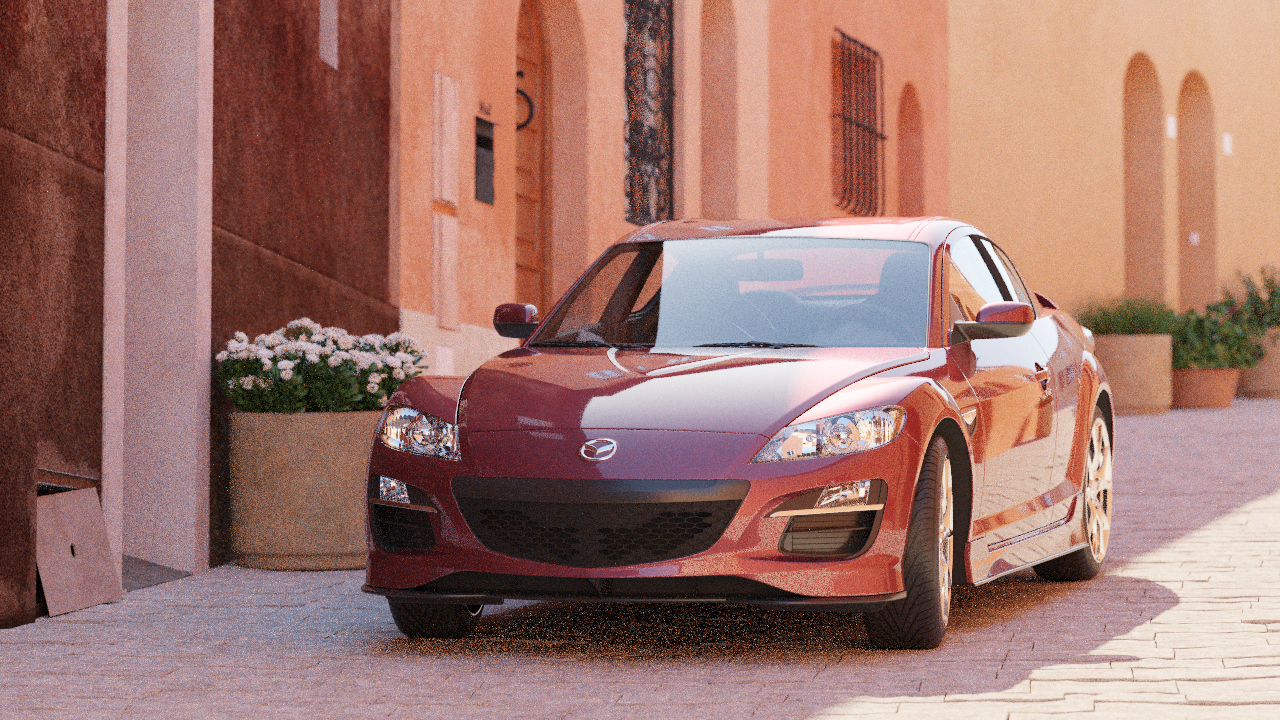
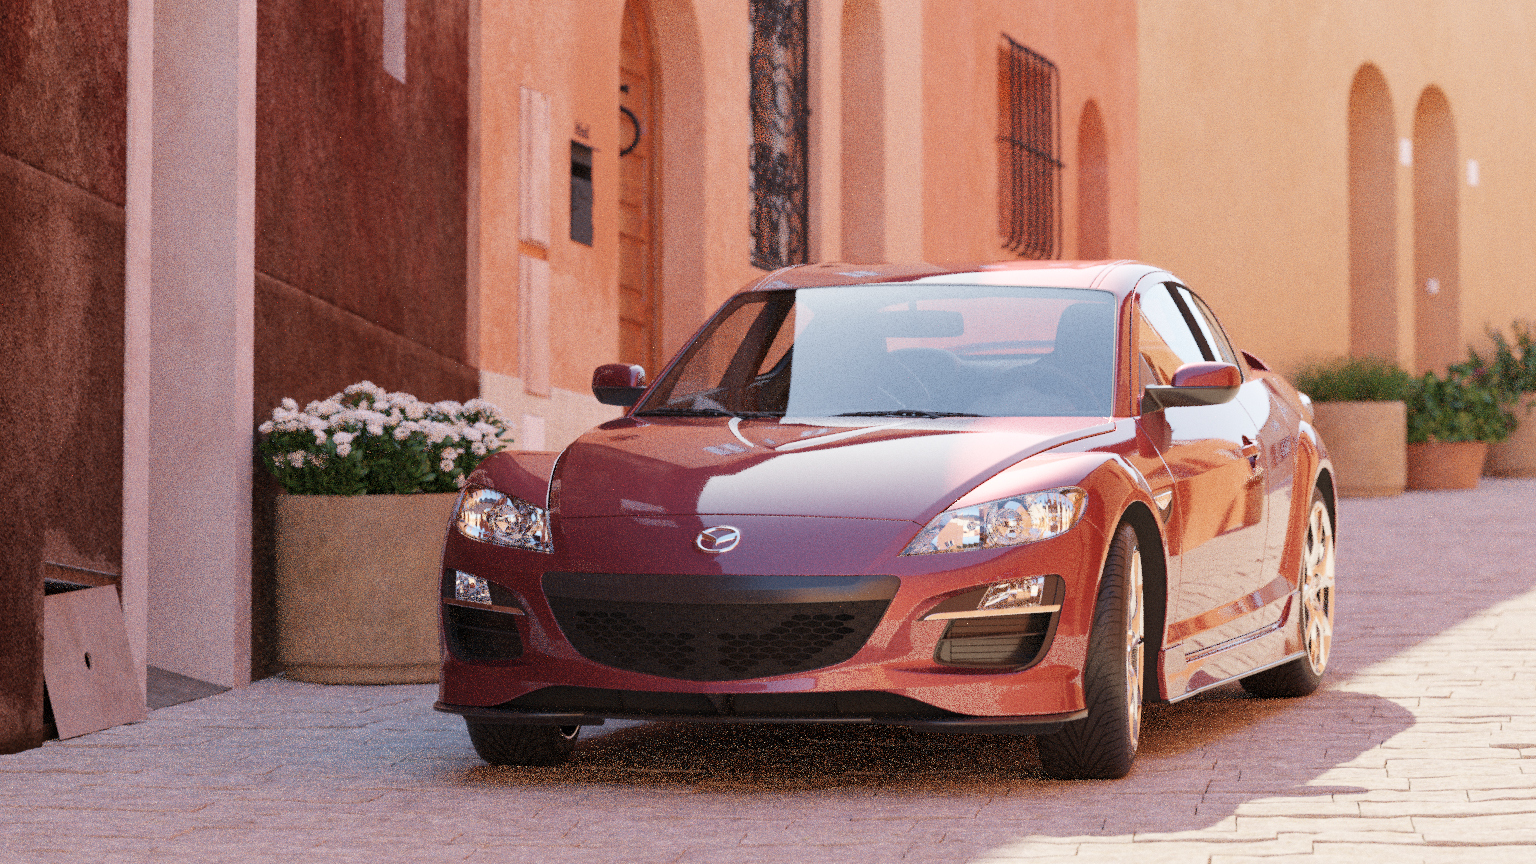
v1.0.0 release

diff --git a/documentation.html b/documentation.html
@@ -190,12 +190,19 @@ div.sourceCode { overflow-x: initial; }
 <a class="sourceLine" id="cb4-3" title="3"><span class="dt">bool</span> oidnGetDevice1b(OIDNDevice device, <span class="at">const</span> <span class="dt">char</span>* name);</a>
 <a class="sourceLine" id="cb4-4" title="4"><span class="dt">int</span>  oidnGetDevice1i(OIDNDevice device, <span class="at">const</span> <span class="dt">char</span>* name);</a></code></pre></div>
 <p>to set and get parameter values on the device. Note that some parameters are constants, thus trying to set them is an error. See the tables below for the parameters supported by devices.</p>
-<table>
+<table style="width:97%;">
 <caption>Parameters supported by all devices.</caption>
+<colgroup>
+<col style="width: 11%" />
+<col style="width: 18%" />
+<col style="width: 12%" />
+<col style="width: 54%" />
+</colgroup>
 <thead>
 <tr class="header">
 <th style="text-align: left;">Type</th>
 <th style="text-align: left;">Name</th>
+<th style="text-align: right;">Default</th>
 <th style="text-align: left;">Description</th>
 </tr>
 </thead>
@@ -203,27 +210,43 @@ div.sourceCode { overflow-x: initial; }
 <tr class="odd">
 <td style="text-align: left;">const int</td>
 <td style="text-align: left;">version</td>
+<td style="text-align: right;"></td>
 <td style="text-align: left;">combined version number (major.minor.patch) with two decimal digits per component</td>
 </tr>
 <tr class="even">
 <td style="text-align: left;">const int</td>
 <td style="text-align: left;">versionMajor</td>
+<td style="text-align: right;"></td>
 <td style="text-align: left;">major version number</td>
 </tr>
 <tr class="odd">
 <td style="text-align: left;">const int</td>
 <td style="text-align: left;">versionMinor</td>
+<td style="text-align: right;"></td>
 <td style="text-align: left;">minor version number</td>
 </tr>
 <tr class="even">
 <td style="text-align: left;">const int</td>
 <td style="text-align: left;">versionPatch</td>
+<td style="text-align: right;"></td>
 <td style="text-align: left;">patch version number</td>
+</tr>
+<tr class="odd">
+<td style="text-align: left;">int</td>
+<td style="text-align: left;">verbose</td>
+<td style="text-align: right;">0</td>
+<td style="text-align: left;">verbosity level of the console output between 0–3; when set to 0, no output is printed, when set to a higher level more output is printed</td>
 </tr>
 </tbody>
 </table>
-<table>
+<table style="width:97%;">
 <caption>Additional parameters supported only by CPU devices.</caption>
+<colgroup>
+<col style="width: 8%" />
+<col style="width: 17%" />
+<col style="width: 12%" />
+<col style="width: 58%" />
+</colgroup>
 <thead>
 <tr class="header">
 <th style="text-align: left;">Type</th>
@@ -423,14 +446,14 @@ div.sourceCode { overflow-x: initial; }
 <p>It accepts either a low dynamic range (LDR) or high dynamic range (HDR) color image as input. Optionally, it also accepts auxiliary <em>feature</em> images, e.g. albedo and normal, which improve the denoising quality, preserving more details in the image.</p>
 <p>The <code>RT</code> filter has certain limitations regarding the supported input images. Most notably, it cannot denoise images that were not rendered with ray tracing. Another important limitation is related to anti-aliasing filters. Most renderers use a high-quality pixel reconstruction filter instead of a trivial box filter to minimize aliasing artifacts (e.g. Gaussian, Blackman-Harris). The <code>RT</code> filter does support such pixel filters but only if implemented with importance sampling. Weighted pixel sampling (sometimes called <em>splatting</em>) introduces correlation between neighboring pixels, which causes the denoising to fail (the noise will not be filtered), thus it is not supported.</p>
 <p>The filter can be created by passing <code>"RT"</code> to the <code>oidnNewFilter</code> function as the filter type. The filter supports the following parameters:</p>
-<table style="width:97%;">
+<table style="width:98%;">
 <caption>Parameters supported by the <code>RT</code> filter.</caption>
 <colgroup>
-<col style="width: 10%" />
 <col style="width: 11%" />
-<col style="width: 14%" />
+<col style="width: 11%" />
+<col style="width: 17%" />
 <col style="width: 12%" />
-<col style="width: 48%" />
+<col style="width: 45%" />
 </colgroup>
 <thead>
 <tr class="header">
@@ -482,7 +505,28 @@ div.sourceCode { overflow-x: initial; }
 <td style="text-align: left;"></td>
 <td style="text-align: left;">srgb</td>
 <td style="text-align: right;">false</td>
-<td style="text-align: left;">whether the color is encoded with the sRGB (2.2 gamma) curve (LDR only) or is linear; the output will be encoded with the same curve</td>
+<td style="text-align: left;">whether the color is encoded with the sRGB (or 2.2 gamma) curve (LDR only) or is linear; the output will be encoded with the same curve</td>
+</tr>
+<tr class="odd">
+<td style="text-align: left;">int</td>
+<td style="text-align: left;"></td>
+<td style="text-align: left;">maxMemoryMB</td>
+<td style="text-align: right;">6000</td>
+<td style="text-align: left;">approximate maximum amount of memory to use in megabytes (actual memory usage may be higher); limiting memory usage may cause slower denoising due to internally splitting the image into overlapping tiles, but cannot cause the denoising to fail</td>
+</tr>
+<tr class="even">
+<td style="text-align: left;">const int</td>
+<td style="text-align: left;"></td>
+<td style="text-align: left;">alignment</td>
+<td style="text-align: right;"></td>
+<td style="text-align: left;">when manually denoising the image in tiles, the tile size and offsets should be multiples of this amount of pixels to avoid artifacts; note that manual tiled denoising is supported <em>only</em> for LDR images</td>
+</tr>
+<tr class="odd">
+<td style="text-align: left;">const int</td>
+<td style="text-align: left;"></td>
+<td style="text-align: left;">overlap</td>
+<td style="text-align: right;"></td>
+<td style="text-align: left;">when manually denoising the image in tiles, the tiles should overlap by this amount of pixels</td>
 </tr>
 </tbody>
 </table>
@@ -491,22 +535,22 @@ div.sourceCode { overflow-x: initial; }
 <img src="images/mazda_512spp_color.jpg" alt="Example noisy color image rendered using unidirectional path tracing (512 spp). Scene by Evermotion." style="width:90.0%" /><figcaption>Example noisy color image rendered using unidirectional path tracing (512 spp). <em>Scene by Evermotion.</em></figcaption>
 </figure>
 <figure>
-<img src="images/mazda_512spp_oidn.jpg" alt="Example output image denoised using color and auxiliary (first-hit) feature images (albedo and normal)" style="width:90.0%" /><figcaption>Example output image denoised using color and auxiliary (first-hit) feature images (albedo and normal)</figcaption>
+<img src="images/mazda_512spp_oidn.jpg" alt="Example output image denoised using color and auxiliary feature images (albedo and normal)." style="width:90.0%" /><figcaption>Example output image denoised using color and auxiliary feature images (albedo and normal).</figcaption>
 </figure>
 <p>Using auxiliary feature images like albedo and normal helps preserving fine details and textures in the image thus can significantly improve denoising quality. These images should typically contain feature values for the first hit (i.e. the surface which is directly visible) per pixel. This works well for most surfaces but does not provide any benefits for reflections and objects visible through transparent surfaces (compared to just using the color as input). However, in certain cases this issue can be fixed by storing feature values for a subsequent hit (i.e. the reflection and/or refraction) instead of the first hit. For example, it usually works well to follow perfect specular (<em>delta</em>) paths and store features for the first diffuse or glossy surface hit instead (e.g. for perfect specular dielectrics and mirrors). This can greatly improve the quality of reflections and transmission. We will describe this approach in more detail in the following subsections.</p>
 <p>The auxiliary feature images should be as noise-free as possible. It is not a strict requirement but too much noise in the feature images may cause residual noise in the output. Also, all feature images should use the same pixel reconstruction filter as the color image. Using a properly anti-aliased color image but aliased albedo or normal images will likely introduce artifacts around edges.</p>
 <h4 id="albedo">Albedo</h4>
 <p>The albedo image is the feature image that usually provides the biggest quality improvement. It should contain the approximate color of the surfaces independent of illumination and viewing angle.</p>
 <p>For simple matte surfaces this means using the diffuse color/texture as the albedo. For other, more complex surfaces it is not always obvious what is the best way to compute the albedo, but the denoising filter is flexibile to a certain extent and works well with differently computed albedos. Thus it is not necessary to compute the strict, exact albedo values but must be always between 0 and 1.</p>
-<p>For metallic surfaces the albedo should be either the reflectivity at normal incidence (e.g. from the artist friendly metallic Fresnel model) or the average reflectivity; or if these are constant (not textured) or unknown, the albedo can be simply 1 as well.</p>
-<p>The albedo for dielectric surfaces (e.g. glass) should be either 1 or, if the surface is perfect specular (i.e. has a delta BSDF), the Fresnel blend of the reflected and transmitted albedos (as previously discussed). The latter usually works better but <em>only</em> if it does not introduce too much additional noise due to random sampling. Thus we recommend to split the path into a reflected and a transmitted path at the first hit, and perhaps fall back to an albedo of 1 for subsequent dielectric hits, to avoid noise. The reflected albedo in itself can be used for mirror-like surfaces as well.</p>
-<p>The albedo for layered surfaces can be computed as the weighted sum of the albedos of the individual layers. Non-absorbing clear coat layers can be simply ignored (or the albedo of the perfect specular reflection can be used as well) but absorption should be taken into account.</p>
 <figure>
 <img src="images/mazda_512spp_albedo_firsthit.jpg" alt="Example albedo image obtained using the first hit. Note that the albedos of all transparent surfaces are 1." style="width:90.0%" /><figcaption>Example albedo image obtained using the first hit. Note that the albedos of all transparent surfaces are 1.</figcaption>
 </figure>
 <figure>
 <img src="images/mazda_512spp_albedo_nondeltahit.jpg" alt="Example albedo image obtained using the first diffuse or glossy (non-delta) hit. Note that the albedos of perfect specular (delta) transparent surfaces are computed as the Fresnel blend of the reflected and transmitted albedos." style="width:90.0%" /><figcaption>Example albedo image obtained using the first diffuse or glossy (non-delta) hit. Note that the albedos of perfect specular (delta) transparent surfaces are computed as the Fresnel blend of the reflected and transmitted albedos.</figcaption>
 </figure>
+<p>For metallic surfaces the albedo should be either the reflectivity at normal incidence (e.g. from the artist friendly metallic Fresnel model) or the average reflectivity; or if these are constant (not textured) or unknown, the albedo can be simply 1 as well.</p>
+<p>The albedo for dielectric surfaces (e.g. glass) should be either 1 or, if the surface is perfect specular (i.e. has a delta BSDF), the Fresnel blend of the reflected and transmitted albedos (as previously discussed). The latter usually works better but <em>only</em> if it does not introduce too much additional noise due to random sampling. Thus we recommend to split the path into a reflected and a transmitted path at the first hit, and perhaps fall back to an albedo of 1 for subsequent dielectric hits, to avoid noise. The reflected albedo in itself can be used for mirror-like surfaces as well.</p>
+<p>The albedo for layered surfaces can be computed as the weighted sum of the albedos of the individual layers. Non-absorbing clear coat layers can be simply ignored (or the albedo of the perfect specular reflection can be used as well) but absorption should be taken into account.</p>
 <h4 id="normal">Normal</h4>
 <p>The normal image should contain the shading normals of the surfaces either in world-space or view-space. It is recommended to include normal maps to preserve as much detail as possible.</p>
 <p>Just like any other input image, the normal image should be anti-aliased (i.e. by accumulating the normalized normals per pixel). The final accumulated normals do not have to be normalized but must be in a range symmetric about 0 (i.e. normals mapped to [0, 1] are <em>not</em> acceptable and must be remapped to e.g. [−1, 1]).</p>

diff --git a/gallery.html b/gallery.html
@@ -36,34 +36,10 @@
       <div id="content">
 
 <h1 id="open-image-denoise-gallery">Open Image Denoise Gallery</h1>
-<p>This page contains a few sample screenshots of different renderings denoised with Open Image Denoise, using the color, albedo, and normal buffers as inputs. The original noisy images are also shown. Hover over an image (or tap on it if you have a touchscreen) to move the slider between the original and denoised versions.</p>
+<p>This page contains a few sample screenshots of different renderings denoised with Open Image Denoise, using the color, albedo, and normal buffers as inputs. The original (noisy) color buffers are also shown. Hover over an image (or tap on it if you have a touchscreen) to move the slider between the original and denoised versions.</p>
 <p>If <em>you</em> have created any notable images using Open Image Denoise and would like to share them on this page, please <a href="mailto:openimagedenoise@googlegroups.com">send us an email</a>.</p>
-<h2 id="moana-island-scene">Moana Island Scene</h2>
-<p>Rendered at 16 spp with <a href="http://www.ospray.org">Intel® OSPRay</a>:</p>
-<div class="img-compare" style="padding-bottom: 41.875%; /* 536/1280 */" onmousemove="this.getElementsByTagName(&#39;div&#39;)[0].style.width=event.offsetX+&#39;px&#39;">
-<img src="images/moana_palms_16spp_oidn.jpg"><span>Denoised</span>
-<div>
-<img src="images/moana_palms_16spp_input.jpg"><span>Original</span>
-</div>
-</div>
-<p><em><a href="https://www.technology.disneyanimation.com/islandscene">Publicly available</a> dataset courtesy of Walt Disney Animation Studios.</em></p>
-<h2 id="amazon-lumberyard-bistro">Amazon Lumberyard Bistro</h2>
-<p>Rendered at 64 spp:</p>
-<div class="img-compare" style="padding-bottom: 56.25%; /* 9/16 */" onmousemove="this.getElementsByTagName(&#39;div&#39;)[0].style.width=event.offsetX+&#39;px&#39;">
-<img src="images/bistro_64spp_oidn.jpg"><span>Denoised</span>
-<div>
-<img src="images/bistro_64spp_input.jpg"><span>Original</span>
-</div>
-</div>
-<div class="img-compare" style="padding-bottom: 56.25%; /* 9/16 */" onmousemove="this.getElementsByTagName(&#39;div&#39;)[0].style.width=event.offsetX+&#39;px&#39;">
-<img src="images/bistro2_64spp_oidn.jpg"><span>Denoised</span>
-<div>
-<img src="images/bistro2_64spp_input.jpg"><span>Original</span>
-</div>
-</div>
-<p><em>Scene created by Amazon Lumberyard, released publicly in the NVIDIA <a href="http://developer.nvidia.com/orca/amazon-lumberyard-bistro">Open Research Content Archive (ORCA)</a> collection, downloaded from <a href="https://casual-effects.com/data">Morgan McGuire’s Computer Graphics Archive</a>.</em></p>
 <h2 id="crytek-sponza">Crytek Sponza</h2>
-<p>Rendered at 16 spp:</p>
+<p>Rendered at 16 spp and denoised in HDR:</p>
 <div class="img-compare" style="padding-bottom: 56.25%; /* 9/16 */" onmousemove="this.getElementsByTagName(&#39;div&#39;)[0].style.width=event.offsetX+&#39;px&#39;">
 <img src="images/sponza_16spp_oidn.jpg"><span>Denoised</span>
 <div>
@@ -71,8 +47,30 @@
 </div>
 </div>
 <p><em>Scene courtesy of Frank Meinl, downloaded from <a href="https://casual-effects.com/data">Morgan McGuire’s Computer Graphics Archive</a>.</em></p>
+<h2 id="amazon-lumberyard-bistro">Amazon Lumberyard Bistro</h2>
+<p>Rendered at 64 spp and denoised in HDR:</p>
+<div class="img-compare" style="padding-bottom: 56.25%; /* 9/16 */" onmousemove="this.getElementsByTagName(&#39;div&#39;)[0].style.width=event.offsetX+&#39;px&#39;">
+<img src="images/bistro_64spp_oidn.jpg"><span>Denoised</span>
+<div>
+<img src="images/bistro_64spp_input.jpg"><span>Original</span>
+</div>
+</div>
+<p>Rendered at 16 spp and denoised in HDR:</p>
+<div class="img-compare" style="padding-bottom: 56.25%; /* 9/16 */" onmousemove="this.getElementsByTagName(&#39;div&#39;)[0].style.width=event.offsetX+&#39;px&#39;">
+<img src="images/bistro3_16spp_oidn.jpg"><span>Denoised</span>
+<div>
+<img src="images/bistro3_16spp_input.jpg"><span>Original</span>
+</div>
+</div>
+<div class="img-compare" style="padding-bottom: 56.25%; /* 9/16 */" onmousemove="this.getElementsByTagName(&#39;div&#39;)[0].style.width=event.offsetX+&#39;px&#39;">
+<img src="images/bistro2_16spp_oidn.jpg"><span>Denoised</span>
+<div>
+<img src="images/bistro2_16spp_input.jpg"><span>Original</span>
+</div>
+</div>
+<p><em>Scene created by Amazon Lumberyard, released publicly in the NVIDIA <a href="http://developer.nvidia.com/orca/amazon-lumberyard-bistro">Open Research Content Archive (ORCA)</a> collection, downloaded from <a href="https://casual-effects.com/data">Morgan McGuire’s Computer Graphics Archive</a>.</em></p>
 <h2 id="mazda">Mazda</h2>
-<p>Rendered at 64 spp:</p>
+<p>Rendered at 64 spp and denoised in LDR:</p>
 <div class="img-compare" style="padding-bottom: 56.25%; /* 9/16 */" onmousemove="this.getElementsByTagName(&#39;div&#39;)[0].style.width=event.offsetX+&#39;px&#39;">
 <img src="images/mazda_64spp_oidn.jpg"><span>Denoised</span>
 <div>
@@ -81,22 +79,23 @@
 </div>
 <p><em>Scene by Evermotion.</em></p>
 <h2 id="villa">Villa</h2>
-<p>Rendered at 64 spp:</p>
+<p>Rendered at 32 spp and denoised in HDR:</p>
 <div class="img-compare" style="padding-bottom: 56.25%; /* 9/16 */" onmousemove="this.getElementsByTagName(&#39;div&#39;)[0].style.width=event.offsetX+&#39;px&#39;">
-<img src="images/villa_64spp_oidn.jpg"><span>Denoised</span>
+<img src="images/villa_32spp_oidn.jpg"><span>Denoised</span>
 <div>
-<img src="images/villa_64spp_input.jpg"><span>Original</span>
+<img src="images/villa_32spp_input.jpg"><span>Original</span>
 </div>
 </div>
+<p>Rendered at 16 spp and denoised in HDR:</p>
 <div class="img-compare" style="padding-bottom: 56.25%; /* 9/16 */" onmousemove="this.getElementsByTagName(&#39;div&#39;)[0].style.width=event.offsetX+&#39;px&#39;">
-<img src="images/villa2_64spp_oidn.jpg"><span>Denoised</span>
+<img src="images/villa2_16spp_oidn.jpg"><span>Denoised</span>
 <div>
-<img src="images/villa2_64spp_input.jpg"><span>Original</span>
+<img src="images/villa2_16spp_input.jpg"><span>Original</span>
 </div>
 </div>
 <p><em>Scene by Evermotion.</em></p>
 <h2 id="art-deco">Art Deco</h2>
-<p>Rendered at 2048 spp:</p>
+<p>Rendered at 2048 spp and denoised in HDR:</p>
 <div class="img-compare" style="padding-bottom: 56.25%; /* 9/16 */" onmousemove="this.getElementsByTagName(&#39;div&#39;)[0].style.width=event.offsetX+&#39;px&#39;">
 <img src="images/artdeco_2048spp_oidn.jpg"><span>Denoised</span>
 <div>

diff --git a/downloads.html b/downloads.html
@@ -40,13 +40,13 @@
 <p>Your CPU must support at least SSE4.1 to run Open Image Denoise, and you need a 64-bit operating system as well. The TGZ/ZIP packages contain most needed 3rd party dependencies.</p>
 <h2 id="packages">Packages</h2>
 <p>For Linux we provide Open Image Denoise precompiled for 64-bit as a TGZ file:</p>
-<p><a href="https://github.com/OpenImageDenoise/oidn/releases/download/v0.9.0/oidn-0.9.0.x86_64.linux.tar.gz">oidn-0.9.0.x86_64.linux.tar.gz</a></p>
+<p><a href="https://github.com/OpenImageDenoise/oidn/releases/download/v1.0.0/oidn-1.0.0.x86_64.linux.tar.gz">oidn-1.0.0.x86_64.linux.tar.gz</a></p>
 <p>For macOS we provide Open Image Denoise as a TGZ file:</p>
-<p><a href="https://github.com/OpenImageDenoise/oidn/releases/download/v0.9.0/oidn-0.9.0.x86_64.macos.tar.gz">oidn-0.9.0.x86_64.macos.tar.gz</a></p>
+<p><a href="https://github.com/OpenImageDenoise/oidn/releases/download/v1.0.0/oidn-1.0.0.x86_64.macos.tar.gz">oidn-1.0.0.x86_64.macos.tar.gz</a></p>
 <p>For Windows we provide Open Image Denoise binaries precompiled for 64-bit as a ZIP archive:</p>
-<p><a href="https://github.com/OpenImageDenoise/oidn/releases/download/v0.9.0/oidn-0.9.0.x64.vc14.windows.zip">oidn-0.9.0.x64.vc14.windows.zip</a></p>
+<p><a href="https://github.com/OpenImageDenoise/oidn/releases/download/v1.0.0/oidn-1.0.0.x64.vc14.windows.zip">oidn-1.0.0.x64.vc14.windows.zip</a></p>
 <p>The source code of the latest Open Image Denoise version can be downloaded here:</p>
-<p><a href="https://github.com/OpenImageDenoise/oidn/releases/download/v0.9.0/oidn-0.9.0.src.zip">oidn-0.9.0.src.zip</a> <a href="https://github.com/OpenImageDenoise/oidn/releases/download/v0.9.0/oidn-0.9.0.src.tar.gz">oidn-0.9.0.src.tar.gz</a></p>
+<p><a href="https://github.com/OpenImageDenoise/oidn/releases/download/v1.0.0/oidn-1.0.0.src.zip">oidn-1.0.0.src.zip</a> <a href="https://github.com/OpenImageDenoise/oidn/releases/download/v1.0.0/oidn-1.0.0.src.tar.gz">oidn-1.0.0.src.tar.gz</a></p>
 <p>You can also access <a href="https://github.com/OpenImageDenoise/oidn/releases">old Open Image Denoise releases</a>.</p>
 <h1 id="building-open-image-denoise-from-source">Building Open Image Denoise from Source</h1>
 <p>The latest Open Image Denoise sources are always available at the <a href="http://github.com/OpenImageDenoise/oidn">Open Image Denoise GitHub repository</a>. The default <code>master</code> branch should always point to the latest tested bugfix release.</p>

diff --git a/index.html b/index.html
@@ -66,6 +66,19 @@ High-Performance Denoising Library for Ray Tracing
 <p>For recent news, updates, and announcements, please see our complete <a href="https://openimagedenoise.github.io/news.html">news/updates</a> page.</p>
 <p>Join our <a href="https://groups.google.com/d/forum/openimagedenoise/">mailing list</a> to receive release announcements and major news regarding Open Image Denoise.</p>
 <h2 id="version-history">Version History</h2>
+<h3 id="changes-in-v1.0.0">Changes in v1.0.0:</h3>
+<ul>
+<li>Improved denoising quality
+<ul>
+<li>More details preserved</li>
+<li>Less artifacts (e.g. noisy spots, color bleeding with albedo/normal)</li>
+</ul></li>
+<li>Added <code>maxMemoryMB</code> filter parameter for limiting the maximum memory consumption regardless of the image resolution, potentially at the cost of lower denoising speed. This is internally implemented by denoising the image in tiles</li>
+<li>Significantly reduced memory consumption (but slightly lower performance) for high resolutions (&gt; 2K) by default: limited to about 6 GB</li>
+<li>Added <code>alignment</code> and <code>overlap</code> filter parameters that can be queried for manual tiled denoising</li>
+<li>Added <code>verbose</code> device parameter for setting the verbosity of the console output, and disabled all console output by default</li>
+<li>Fixed crash for zero-sized images</li>
+</ul>
 <h3 id="changes-in-v0.9.0">Changes in v0.9.0:</h3>
 <ul>
 <li>Reduced memory consumption by about 38%</li>

diff --git a/news.html b/news.html
@@ -36,6 +36,8 @@
       <div id="content">
 
 <h1 id="news-updates-and-announcements">News, Updates, and Announcements</h1>
+<h2 id="july-29-2019-version-v1.0.0-now-released-on-github">July 29, 2019: Version v1.0.0 now released on GitHub</h2>
+<p>New release version 1.0.0 is now available on the <a href="https://github.com/OpenImageDenoise/oidn/releases/v1.0.0">Open Image Denoise GitHub page</a>.</p>
 <h2 id="may-9-2019-version-v0.9.0-now-released-on-github">May 9, 2019: Version v0.9.0 now released on GitHub</h2>
 <p>New release version 0.9.0 is now available on the <a href="https://github.com/OpenImageDenoise/oidn/releases/v0.9.0">Open Image Denoise GitHub page</a>.</p>
 <h2 id="mar-25-2019-version-v0.8.2-now-released-on-github">Mar 25, 2019: Version v0.8.2 now released on GitHub</h2>
